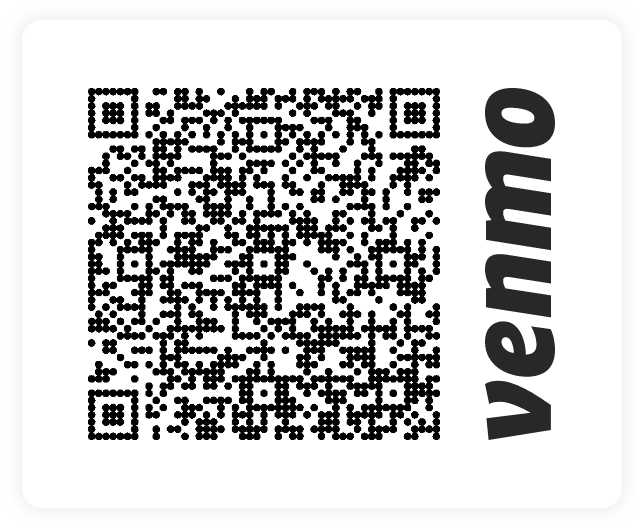
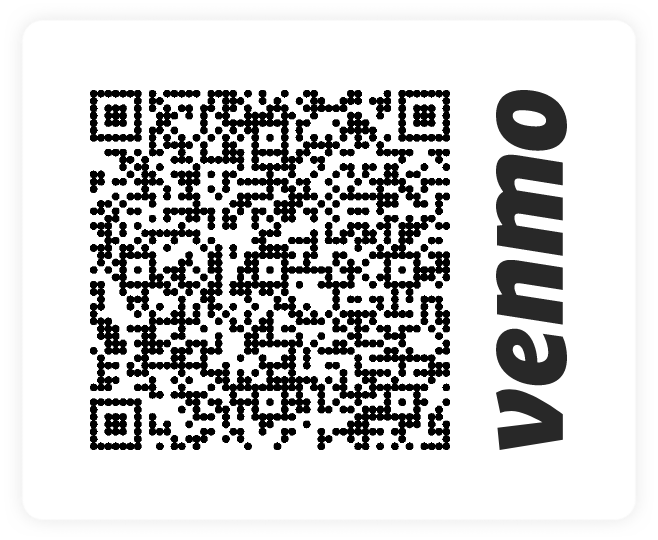
Change venmo qr code and some copy

diff --git a/src/pages/components/tabs/gifts.tsx b/src/pages/components/tabs/gifts.tsx
@@ -17,11 +17,10 @@ const Gifts = (): JSX.Element => {
         greatest gift we can receive is your presence on our special day.
       </div>
       <div>
-        We recently purchased our dream home, so if you are strongly inclined to
-        give us something, we would greatly appreciate contributions toward the
-        cost of furnishings, repairs, and upkeep. Click on or scan the QR codes
-        below to send a gift online, or else feel free to get in touch with us
-        directly.
+        We recently purchased our dream home, so if you are inclined to give us
+        something, we would greatly appreciate contributions toward the cost of
+        furnishings, repairs, and upkeep. Click on or scan the QR codes below to
+        send a gift online, or else feel free to get in touch with us directly.
       </div>
       <div className={s.QRCodes}>
         <div className={s.Code}>

diff --git a/src/pages/components/tabs/special_activities.tsx b/src/pages/components/tabs/special_activities.tsx
@@ -23,8 +23,8 @@ const SpecialActivities = (): JSX.Element => (
       <li>
         <span>Wine Tour:</span> Tour of two nearby wineries, with tastings and
         lunch included. Cost: 85 EUR per person. Transportation costs to and
-        from the vineyards paid at the time of the tour, estimated [TODO FILL IN
-        COST].
+        from the vineyards paid at the time of the tour. Exact transportation
+        costs TBD.
       </li>
       <li>
         <span>Florence Guided Tour:</span> 3 hour walking tour of Florence in
